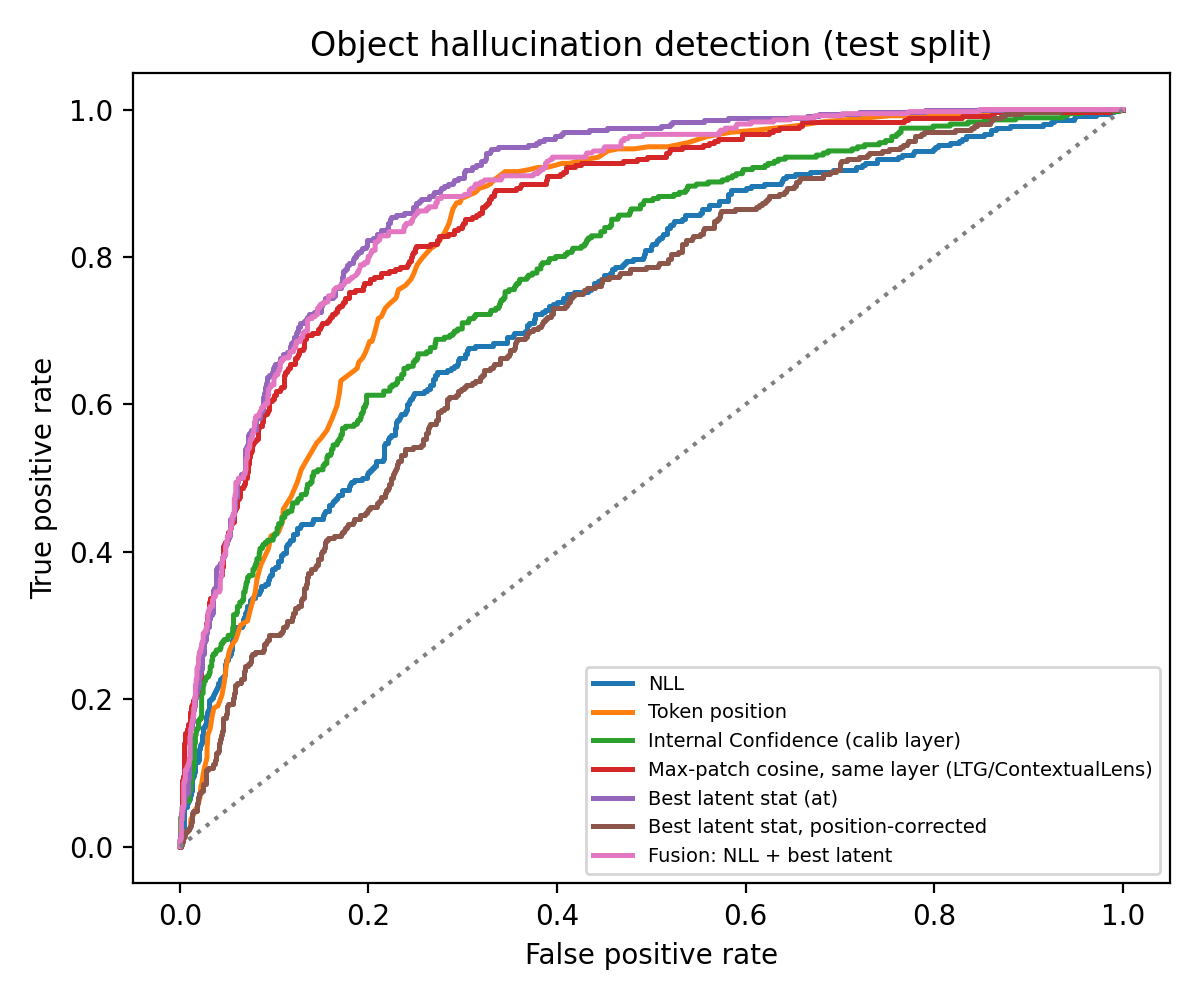
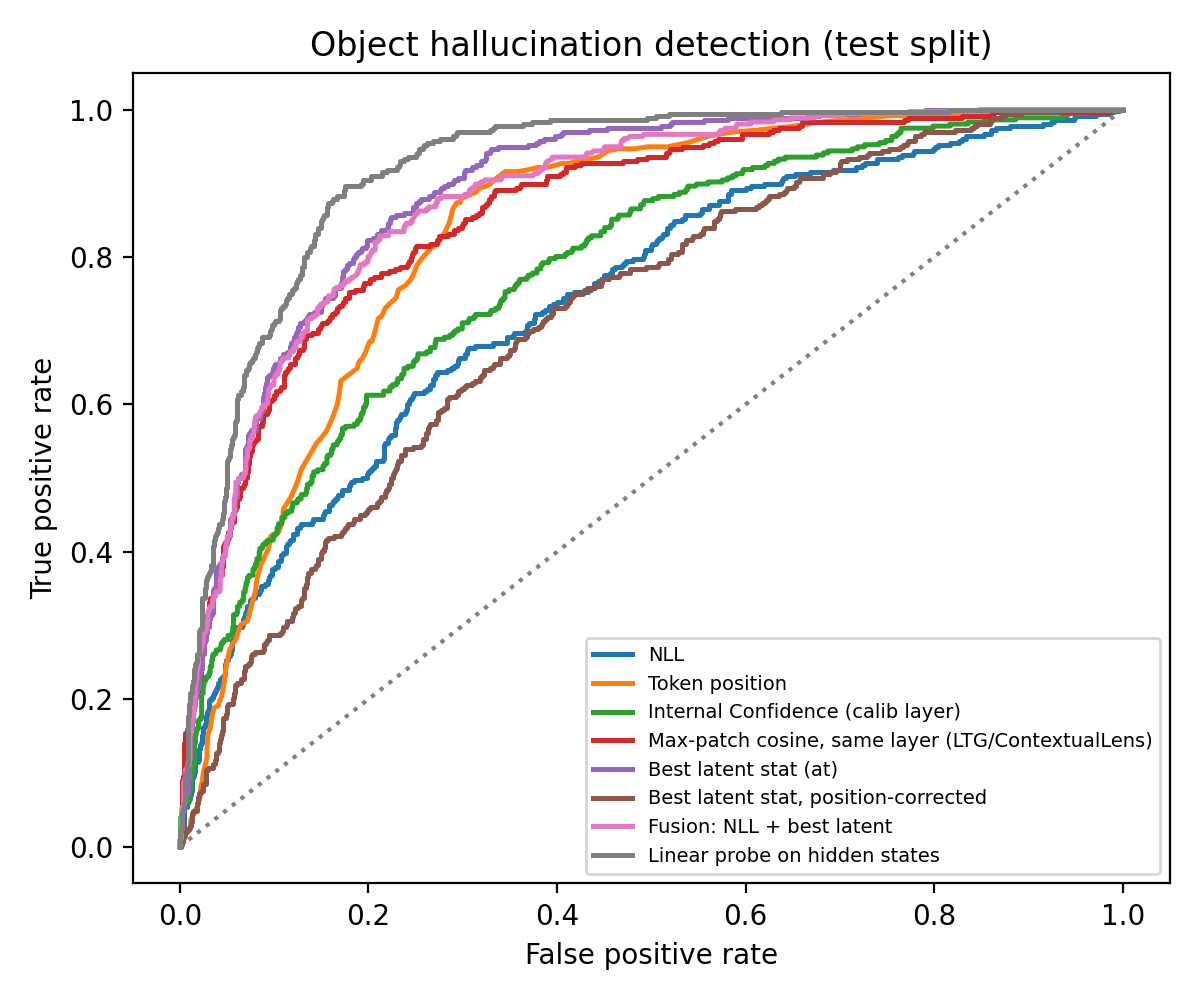
Add the linear-probe baseline to the three caption benchmark evaluations
Cross-fitted, within position bins, the trained probe on object-token
hidden states beats the training-free latent statistic on all three
models: LLaVA-1.5-7B 86.0 vs 79.7, LLaVA-1.5-13B 84.0 vs 78.7,
Qwen2.5-VL-7B 91.8 vs 82.8. The hidden states were re-read from the
stored captions; their recomputed max-patch cosine matches feats/ to a
median of 2e-4 or better.

diff --git a/results/caption_runs/llava15_13b_n1000_s42/eval/eval.md b/results/caption_runs/llava15_13b_n1000_s42/eval/eval.md
@@ -4,6 +4,8 @@ Images: 1000 (calib 500, test 500). Object mentions: 3174 (707 hallucinated). Te
 
 CHAIR on test captions: CHAIR_i 22.7, CHAIR_s 45.4
 
+Hidden states for the linear probe were re-read from the stored captions; their same-layer max cosine differs from the one recorded at generation by 4.0e-05 (median), 7.8e-04 (max).
+
 Hallucinated share by caption-position bin, earliest to latest (10 bins): 1%, 1%, 4%, 6%, 6%, 28%, 37%, 41%, 48%, 59%
 
 | Detector | AUROC [95% CI] | AUROC within position bins [95% CI] | AUPR [95% CI] | Selected on calib | CHAIR_i after removal | Real objects kept |
@@ -23,6 +25,7 @@ Hallucinated share by caption-position bin, earliest to latest (10 bins): 1%, 1%
 | Best latent stat, position-corrected | 71.7 [68.8, 74.8] | 79.0 [73.1, 83.1] | 39.9 [35.5, 46.0] | state=at, text_layer=31, image_layer=28, stat=top16, sign=- | 21.1 | 96.1% |
 | Fusion: NLL + best latent | 87.8 [85.9, 89.7] | 83.6 [79.2, 86.1] | 66.1 [60.2, 71.8] | – | 14.4 | 94.2% |
 | Fusion: NLL + IC + best latent | 89.1 [87.2, 91.1] | 85.0 [81.1, 87.4] | 69.9 [64.5, 75.5] | – | 13.0 | 94.6% |
+| Linear probe on hidden states | 91.9 [90.4, 93.2] | 83.5 [78.6, 88.6] | 72.6 [66.9, 78.1] | layer=18, C=0.001, inner_auroc=0.9205912508544087 | 9.2 | 91.3% |
 
 Positive class = hallucinated object. All selections use the calibration images only; numbers are on the held-out test images. CIs: bootstrap over images. Position bins are quantiles of the object's token index on calibration mentions; the within-bin AUROC is the size-weighted mean over bins.
 
@@ -47,6 +50,7 @@ Every image is scored once by detectors fit on the other folds. Mentions: 3174 (
 | Best latent stat, position-corrected | 78.6 [76.8, 80.3] | 76.9 [71.2, 83.1] | 46.9 [43.1, 50.9] | at L28/L28 top8 (-) (3/5), at L22/L29 top8 (-) (1/5), at L20/L39 top16 (-) (1/5) |
 | Fusion: NLL + best latent | 86.9 [85.6, 88.2] | 81.9 [78.9, 84.1] | 65.3 [61.2, 68.9] | – |
 | Fusion: NLL + IC + best latent | 88.4 [87.1, 89.8] | 83.1 [80.4, 85.1] | 67.9 [63.9, 71.7] | – |
+| Linear probe on hidden states | 92.5 [91.5, 93.4] | 84.0 [77.9, 88.3] | 75.2 [71.5, 78.5] | L13 C=0.001 (1/5), L12 C=0.001 (1/5), L16 C=0.001 (1/5), L19 C=0.001 (1/5), L17 C=0.001 (1/5) |
 
 Paired differences (bootstrap over images; p = share of resamples with difference ≤ 0):
 
@@ -55,3 +59,4 @@ Paired differences (bootstrap over images; p = share of resamples with differenc
 | Best latent stat (at) − NLL | +16.8 [+14.6, +19.2] | 0.000 | +5.3 [-0.9, +10.8] | 0.059 |
 | Best latent stat (at) − Internal Confidence (calib layer) | +11.2 [+9.5, +13.1] | 0.000 | +8.5 [+1.9, +16.0] | 0.004 |
 | Fusion: NLL + best latent − NLL | +14.6 [+13.2, +15.9] | 0.000 | +8.5 [+6.1, +10.7] | 0.000 |
+| Best latent stat (at) − Linear probe on hidden states | -3.3 [-4.4, -2.4] | 1.000 | -5.3 [-13.1, +1.3] | 0.926 |

diff --git a/results/caption_runs/qwen25vl_7b_n1000_s42/eval/eval.md b/results/caption_runs/qwen25vl_7b_n1000_s42/eval/eval.md
@@ -4,6 +4,8 @@ Images: 1000 (calib 500, test 500). Object mentions: 2570 (407 hallucinated). Te
 
 CHAIR on test captions: CHAIR_i 15.4, CHAIR_s 30.2
 
+Hidden states for the linear probe were re-read from the stored captions; their same-layer max cosine differs from the one recorded at generation by 6.9e-05 (median), 1.4e-02 (max).
+
 Hallucinated share by caption-position bin, earliest to latest (10 bins): 0%, 2%, 3%, 9%, 20%, 21%, 18%, 31%, 30%, 29%
 
 | Detector | AUROC [95% CI] | AUROC within position bins [95% CI] | AUPR [95% CI] | Selected on calib | CHAIR_i after removal | Real objects kept |
@@ -23,6 +25,7 @@ Hallucinated share by caption-position bin, earliest to latest (10 bins): 0%, 2%
 | Best latent stat, position-corrected | 83.2 [80.1, 86.2] | 83.2 [78.2, 87.0] | 47.1 [39.9, 54.3] | state=at, text_layer=17, image_layer=13, stat=top4, sign=- | 12.0 | 95.4% |
 | Fusion: NLL + best latent | 82.4 [79.3, 85.3] | 78.1 [74.1, 81.5] | 47.1 [39.3, 55.6] | – | 10.9 | 94.6% |
 | Fusion: NLL + IC + best latent | 81.0 [77.9, 83.8] | 74.5 [70.5, 78.6] | 45.0 [37.3, 52.9] | – | 12.0 | 94.2% |
+| Linear probe on hidden states | 94.2 [92.7, 95.6] | 91.6 [88.7, 94.0] | 76.0 [69.5, 81.2] | layer=15, C=0.001, inner_auroc=0.9375705639563937 | 3.5 | 90.2% |
 
 Positive class = hallucinated object. All selections use the calibration images only; numbers are on the held-out test images. CIs: bootstrap over images. Position bins are quantiles of the object's token index on calibration mentions; the within-bin AUROC is the size-weighted mean over bins.
 
@@ -47,6 +50,7 @@ Every image is scored once by detectors fit on the other folds. Mentions: 2570 (
 | Best latent stat, position-corrected | 82.6 [80.6, 84.5] | 83.5 [80.7, 86.3] | 45.8 [41.3, 51.0] | at L17/L13 top8 (-) (3/5), at L16/L13 top8 (-) (1/5), at L17/L13 top4 (-) (1/5) |
 | Fusion: NLL + best latent | 81.7 [79.7, 83.7] | 76.0 [72.4, 79.0] | 47.6 [42.3, 52.8] | – |
 | Fusion: NLL + IC + best latent | 81.0 [78.8, 83.1] | 72.8 [68.9, 76.7] | 47.0 [42.2, 52.1] | – |
+| Linear probe on hidden states | 94.6 [93.7, 95.5] | 91.8 [89.6, 93.5] | 77.4 [73.6, 81.3] | L16 C=0.001 (4/5), L17 C=0.001 (1/5) |
 
 Paired differences (bootstrap over images; p = share of resamples with difference ≤ 0):
 
@@ -55,3 +59,4 @@ Paired differences (bootstrap over images; p = share of resamples with differenc
 | Best latent stat (at) − NLL | +22.0 [+18.7, +25.3] | 0.000 | +22.7 [+16.0, +29.5] | 0.000 |
 | Best latent stat (at) − Internal Confidence (calib layer) | +19.3 [+16.5, +21.9] | 0.000 | +24.9 [+18.8, +30.3] | 0.000 |
 | Fusion: NLL + best latent − NLL | +16.3 [+14.5, +18.1] | 0.000 | +15.8 [+11.7, +20.3] | 0.000 |
+| Best latent stat (at) − Linear probe on hidden states | -7.2 [-8.5, -5.8] | 1.000 | -8.9 [-11.9, -5.9] | 1.000 |

diff --git a/results/caption_runs/llava15_7b_4bit_n1000_s42/eval/eval.md b/results/caption_runs/llava15_7b_4bit_n1000_s42/eval/eval.md
@@ -4,6 +4,8 @@ Images: 1000 (calib 500, test 500). Object mentions: 3281 (837 hallucinated). Te
 
 CHAIR on test captions: CHAIR_i 25.7, CHAIR_s 46.8
 
+Hidden states for the linear probe were re-read from the stored captions; their same-layer max cosine differs from the one recorded at generation by 1.8e-04 (median), 7.7e-02 (max).
+
 Hallucinated share by caption-position bin, earliest to latest (10 bins): 2%, 1%, 5%, 7%, 14%, 26%, 36%, 55%, 49%, 63%
 
 | Detector | AUROC [95% CI] | AUROC within position bins [95% CI] | AUPR [95% CI] | Selected on calib | CHAIR_i after removal | Real objects kept |
@@ -23,6 +25,7 @@ Hallucinated share by caption-position bin, earliest to latest (10 bins): 2%, 1%
 | Best latent stat, position-corrected | 78.0 [75.2, 80.6] | 79.2 [74.2, 84.0] | 50.3 [45.1, 55.3] | state=at, text_layer=22, image_layer=22, stat=top8, sign=- | 22.9 | 94.8% |
 | Fusion: NLL + best latent | 87.4 [85.4, 89.2] | 80.7 [77.1, 83.7] | 70.3 [65.5, 75.2] | – | 15.4 | 93.6% |
 | Fusion: NLL + IC + best latent | 88.4 [86.4, 90.3] | 83.3 [79.8, 85.8] | 72.0 [67.0, 76.9] | – | 14.6 | 94.5% |
+| Linear probe on hidden states | 91.2 [89.9, 92.5] | 83.2 [79.3, 86.9] | 77.1 [73.4, 80.8] | layer=15, C=0.001, inner_auroc=0.923570003044346 | 9.8 | 88.5% |
 
 Positive class = hallucinated object. All selections use the calibration images only; numbers are on the held-out test images. CIs: bootstrap over images. Position bins are quantiles of the object's token index on calibration mentions; the within-bin AUROC is the size-weighted mean over bins.
 
@@ -47,6 +50,7 @@ Every image is scored once by detectors fit on the other folds. Mentions: 3281 (
 | Best latent stat, position-corrected | 78.1 [76.5, 79.8] | 79.7 [75.4, 83.0] | 48.0 [44.9, 51.6] | at L22/L23 top8 (-) (4/5), at L19/L23 top8 (-) (1/5) |
 | Fusion: NLL + best latent | 87.2 [85.9, 88.5] | 80.1 [77.3, 82.5] | 70.6 [67.3, 73.8] | – |
 | Fusion: NLL + IC + best latent | 88.7 [87.3, 90.0] | 82.0 [79.2, 84.3] | 73.3 [69.7, 76.8] | – |
+| Linear probe on hidden states | 92.1 [91.2, 92.9] | 86.0 [83.7, 87.9] | 78.5 [75.6, 81.0] | L16 C=0.001 (3/5), L15 C=0.001 (1/5), L18 C=0.01 (1/5) |
 
 Paired differences (bootstrap over images; p = share of resamples with difference ≤ 0):
 
@@ -55,3 +59,4 @@ Paired differences (bootstrap over images; p = share of resamples with differenc
 | Best latent stat (at) − NLL | +15.6 [+13.8, +17.6] | 0.000 | +8.8 [+4.6, +12.8] | 0.000 |
 | Best latent stat (at) − Internal Confidence (calib layer) | +9.6 [+8.0, +11.4] | 0.000 | +8.8 [+4.3, +13.1] | 0.000 |
 | Fusion: NLL + best latent − NLL | +13.7 [+12.7, +15.0] | 0.000 | +9.2 [+7.3, +11.2] | 0.000 |
+| Best latent stat (at) − Linear probe on hidden states | -3.0 [-4.1, -2.0] | 1.000 | -6.3 [-9.5, -3.4] | 1.000 |
